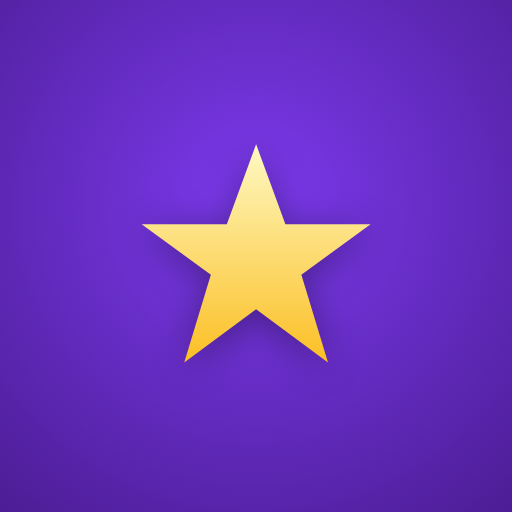
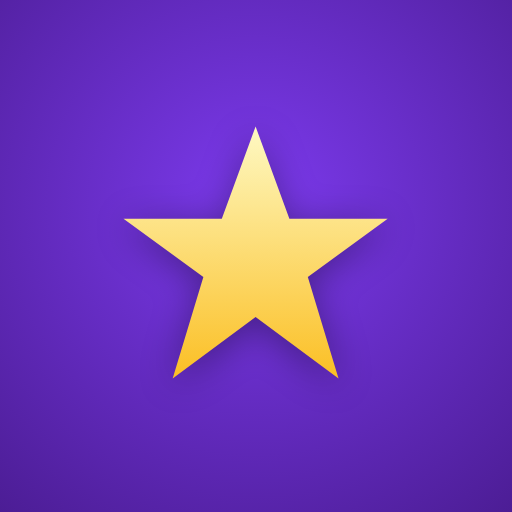
fix(pwa): icone any-maskable a tutto fondo per togliere piattino bianco splash
La cornice bianca nello splash la aggiunge Android quando l icona e solo
purpose:any (trattata come legacy e messa in un piattino bianco). Dichiarate
le icone 192/512 come any maskable e rigenerate con stella al 60% (dentro la
safe-zone del mascheramento) e viola a tutto fondo: Android la maschera senza
aggiungere bianco. Bump cache v4->v5 per servire icone+manifest aggiornati.

diff --git a/scripts/gen-icons.js b/scripts/gen-icons.js
@@ -26,19 +26,22 @@ function page(sizePx, starScalePct) {
   const out = path.join(__dirname, '..', 'icons');
   fs.mkdirSync(out, { recursive: true });
 
+  // Tutte "any maskable": stella al 60% = dentro la safe-zone del mascheramento
+  // Android (cerchio dell'80%), sfondo viola a tutto fondo → niente piattino bianco
+  // nello splash/launcher, e la stella non viene mai tagliata.
   // any 512
   await p.setViewportSize({ width: 512, height: 512 });
-  await p.setContent(page(512, 78));
+  await p.setContent(page(512, 60));
   await p.locator('.bg').screenshot({ path: path.join(out, 'icon-512.png') });
 
   // any 192
   await p.setViewportSize({ width: 192, height: 192 });
-  await p.setContent(page(192, 78));
+  await p.setContent(page(192, 60));
   await p.locator('.bg').screenshot({ path: path.join(out, 'icon-192.png') });
 
   // maskable 512 (stella piccola per la safe-zone Android)
   await p.setViewportSize({ width: 512, height: 512 });
-  await p.setContent(page(512, 52));
+  await p.setContent(page(512, 60));
   await p.locator('.bg').screenshot({ path: path.join(out, 'icon-maskable-512.png') });
 
   await browser.close();

diff --git a/sw.js b/sw.js
@@ -1,7 +1,7 @@
 // Service worker PWA Global Awakening.
 // Strategia: network-first per navigazione/app.html/app.js (aggiornamenti sempre freschi,
 // cache solo come fallback offline), cache-first per CDN immutabili e icone, no-cache per Supabase/EmailJS.
-const CACHE = 'ga-pwa-v4';
+const CACHE = 'ga-pwa-v5';
 const PRECACHE = [
   'app.html', 'app.js', 'index.html', 'manifest.webmanifest',
   'icons/icon-192.png', 'icons/icon-512.png', 'icons/icon-maskable-512.png',